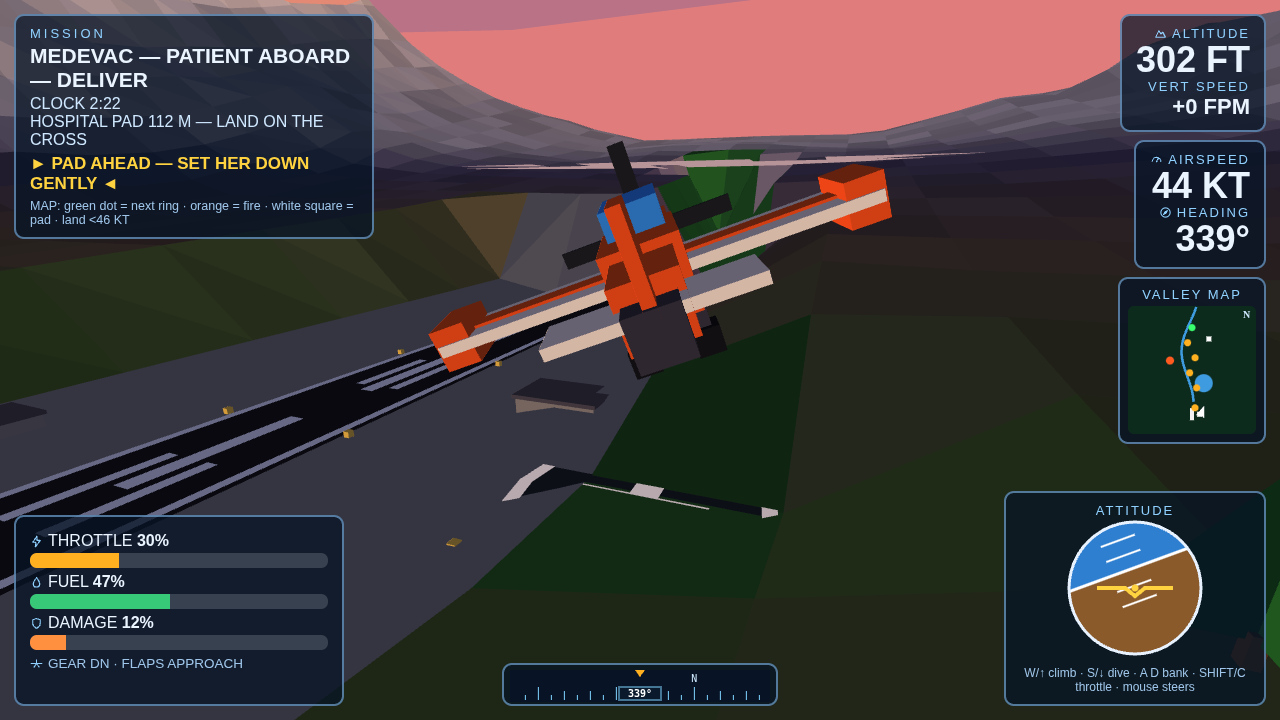
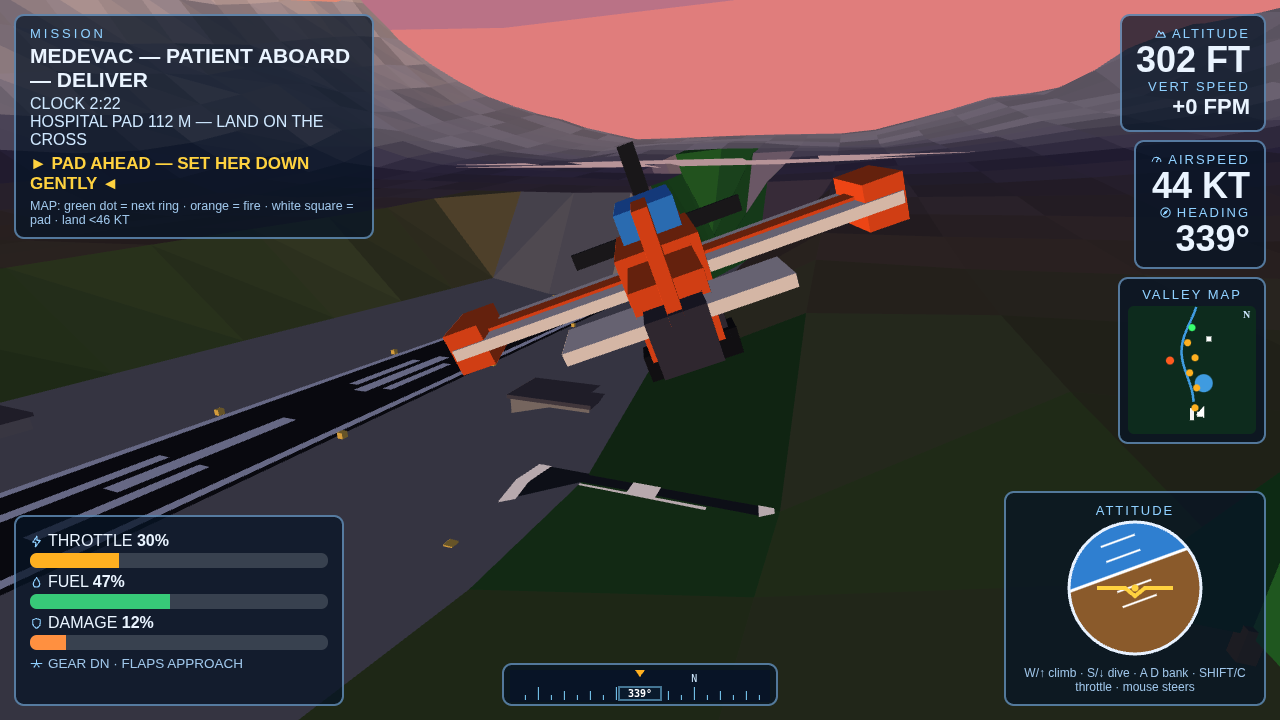
v4: a cleaner cover sky and a closer survey final — the chunky pink hero clouds that swallowed the sun are replaced by thin distant strata at the frame edges, the cover pose drops lower and further south so the plane sits bigger over a visible runway with the last ring clear of its wing, and the app

diff --git a/game/terrain.js b/game/terrain.js
@@ -221,6 +221,28 @@ const Terrain = (() => {
       b.box(-172,3.8,-4980,5,7.6,10,pier); b.box(-104,3.8,-4980,5,7.6,10,pier);
       b.box(-138,9.6,-4986,118,1.8,1.2,deck); b.box(-138,9.6,-4974,118,1.8,1.2,deck);
     }
+    // v4 cover detail in the approach corridor (z -4400..-5050, the ground
+    // the cover frame actually shows): a farmstead west of the river —
+    // barn, silo, house — and a denser tree line along both banks, so the
+    // foreground has landmarks at chase distance instead of bare grass.
+    { const fw=[0.62,0.58,0.52], froof=[0.55,0.22,0.14];
+      const by=heightAt(-215,-4620);
+      b.box(-215,by+4,-4620,20,8,13,fw); b.box(-215,by+8.7,-4620,22,1.6,15,froof);   // barn
+      b.box(-188,by+7,-4608,4.5,14,4.5,[0.78,0.76,0.72]);                            // silo
+      b.box(-188,by+14.6,-4608,5.4,1.2,5.4,[0.40,0.38,0.40]);                         // silo cap
+      const hy=heightAt(-168,-4705);
+      b.box(-168,hy+3,-4705,11,6,9,[0.92,0.88,0.78]); b.box(-168,hy+6.6,-4705,13,1.4,11,[0.32,0.28,0.28]); // farmhouse
+      const tr2=makeRng(2027);
+      for(let i=0;i<46;i++){ const side=i%2? 1:-1, tx=side*(95+tr2()*85), tz=-4420-tr2()*600;
+        if (Math.abs(tx-riverX(tz))<52 || runwayBlend(tx,tz)>0) continue;
+        const th=heightAt(tx,tz), s=7.5+tr2()*6.5, g=tr2()<0.5?[0.08,0.32,0.12]:[0.14,0.42,0.16];
+        b.box(tx,th+2,tz,1.6,4,1.6,[0.36,0.24,0.12]);
+        b.tri([tx-s,th+3,tz],[tx+s,th+3,tz],[tx,th+3+s*1.7,tz],g);
+        b.tri([tx,th+3,tz-s],[tx,th+3,tz+s],[tx,th+3+s*1.7,tz],g); } }
+    // Approach light bars on the centreline before the threshold: five
+    // white bars the final approach flies over, depth cues in the cover.
+    for(let i=0;i<5;i++){ const az=-4995-i*22;
+      b.box(0,11.2,az,16,1.1,2.6,[1.0,0.97,0.88]); }
     pad(150,-5400);   // hospital helipad, beside the strip
     return b.build();
   }
@@ -257,12 +279,15 @@ const Terrain = (() => {
       const top=[0.99,0.80,0.74], under=[0.74,0.52,0.60];
       for(let k=0;k<6;k++){ const ox=(cr()*2-1)*s*0.8, oz=(cr()*2-1)*s*0.35, oy=(cr()*0.6)*20, w=45+cr()*55;
         b.box(cx+ox,cy+oy,cz+oz, w,26+cr()*20,w*0.7, k%2? top: under); } }
-    // Hero clouds placed in the northern view corridor, so the screenshots
-    // that matter actually contain clouds.
-    const hero=[[-380,430,-5650],[430,505,-6000],[-60,395,-5300],[150,470,-5550]];
-    for(const [hx,hy,hz] of hero){ const hr=makeRng(Math.abs(hx)+Math.abs(hz));
-      for(let k=0;k<7;k++){ const ox=(hr()*2-1)*55, oz=(hr()*2-1)*22, oy=(hr()*2-1)*17, w=36+hr()*48;
-        b.box(hx+ox,hy+oy,hz+oz, w,26+hr()*20,w*0.7, k%2? [0.99,0.80,0.74]:[0.74,0.52,0.60]); } }
+    // v4: the old hero clouds sat in the northern view corridor as chunky
+    // pink boxes that landed on the cover as flat rectangles swallowing the
+    // sun. They are gone. In their place, two long, thin, high cloud bands
+    // far out at the frame's edges — wide and flat, so they read as distant
+    // sunset strata instead of floating blocks, and the sun stays clear.
+    for(const [hx,hy,hz,seed] of [[-1500,690,-6100,31],[1550,760,-6250,47]]){
+      const hr=makeRng(seed);
+      for(let k=0;k<5;k++){ const ox=(hr()*2-1)*160, oz=(hr()*2-1)*30, oy=(hr()*2-1)*10, w=150+hr()*130;
+        b.box(hx+ox,hy+oy,hz+oz, w,13+hr()*8,w*0.32, k%2? [0.97,0.76,0.70]:[0.80,0.58,0.62]); } }
     return b.build();
   }
   return {heightAt, build, buildSky, riverX};

diff --git a/game/main.js b/game/main.js
@@ -171,13 +171,18 @@ function frame(){
 // ---- demo / seed presets for deterministic screenshots ----
 function applyPreset(name){
   if (name==='cover'||name==='runway'||name==='results'||name==='title') Missions.select('survey');
-  if (name==='cover'){ plane.pos=[6,140,-4780]; plane.heading=-0.01; plane.pitch=0.0; plane.speed=60; plane.throttle=0.50;
+  if (name==='cover'){ plane.pos=[-24,138,-4620]; plane.heading=0.02; plane.pitch=-0.02; plane.roll=0.22; plane.speed=58; plane.throttle=0.52;
     for(let i=0;i<5;i++) Missions.rings[i].passed=true; Missions.state.ringsPassed=5;
     Fuel.set(54); Damage.set(9); screen='fly';
     // Poster treatment: closer chase camera (bigger plane), enlarged HUD
     // type, and a one-line callout that names all three sortie systems.
+    // v4 pose: lower and west of the old centreline shot, banked toward the
+    // last ring — the plane sits big in the left third, the green ring is
+    // clear of the wing on the right, and the runway, farmstead and river
+    // fill the frame ahead. The shot recipe steps only a few ticks, before
+    // the flight model settles the bank out (the medevac recipe's trick).
     document.body.classList.add('poster');
-    Camera.setDist(6.2);
+    Camera.setDist(5.2);
     window.__flightPoster='3 SORTIES · SURVEY · FIRE · MEDEVAC'; }
   else if (name==='runway'){ plane.pos=[6,36,-4995]; plane.heading=-0.03; plane.pitch=-0.06; plane.speed=47; plane.throttle=0.30;
     for(const r of Missions.rings) r.passed=true; Missions.state.ringsPassed=6; Fuel.set(38); Damage.set(18); screen='fly'; }
